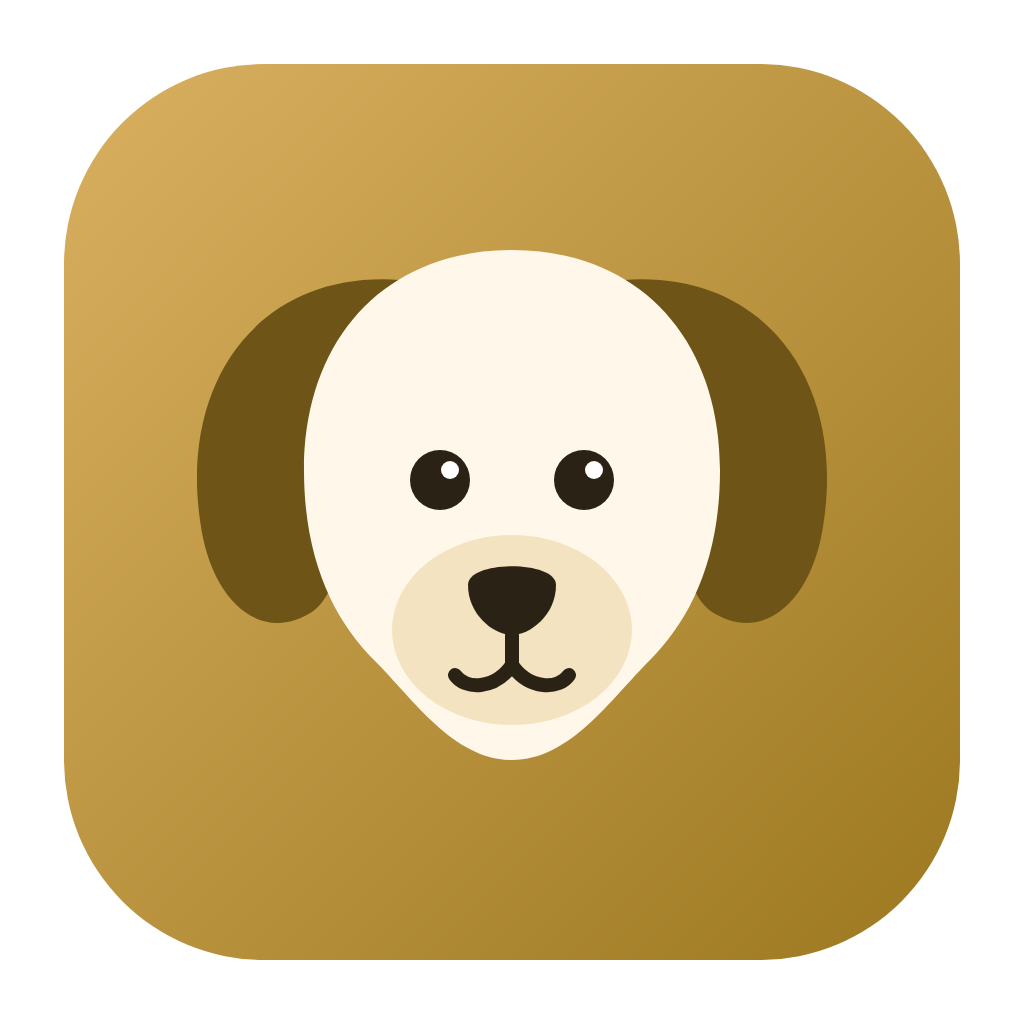
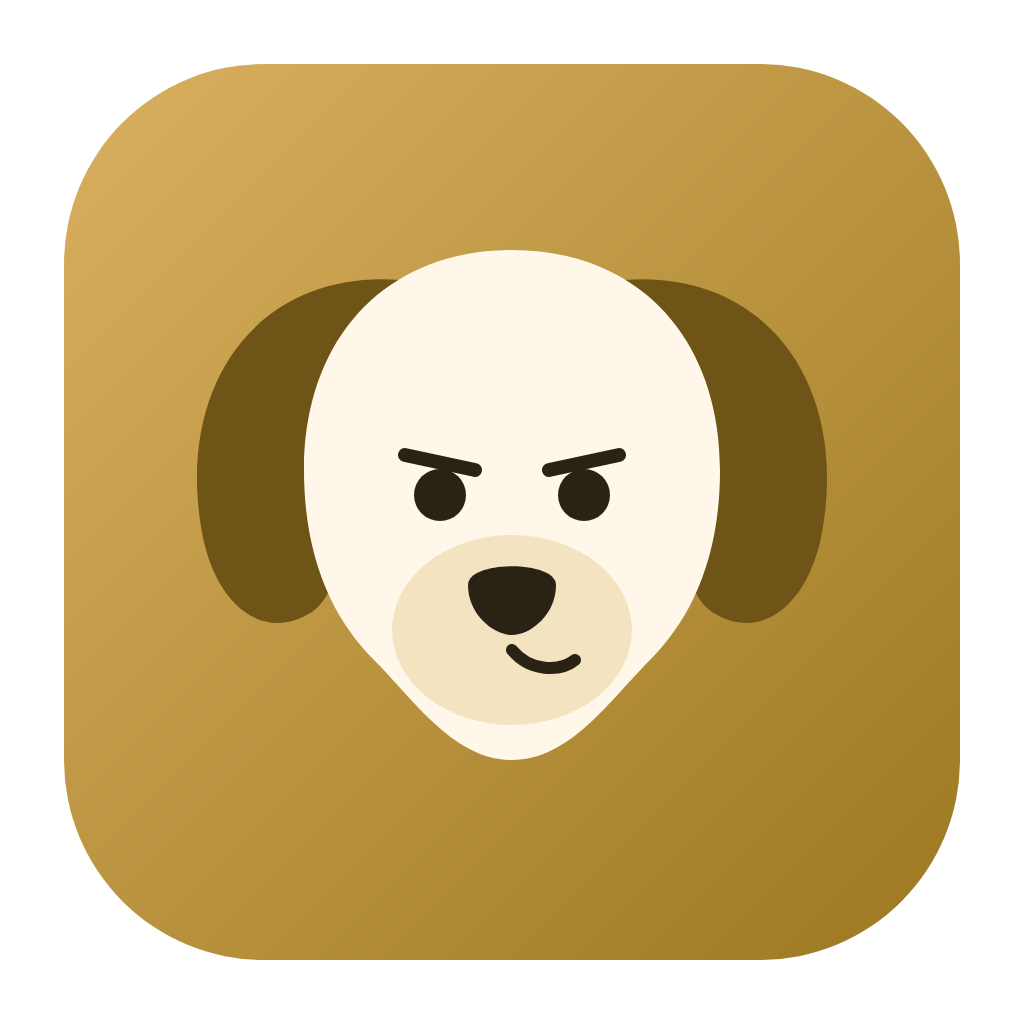
v0.6.3

Changed region(s): [[0.4375, 0.625, 0.5625, 0.6875], [0.5312, 0.4375, 0.625, 0.5312], [0.375, 0.4375, 0.4688, 0.5312]]

diff --git a/engine/static/cartes.js b/engine/static/cartes.js
@@ -13,6 +13,7 @@ function queue() {
   const rank = (p) => (p.conflict ? 0 : isHi(p) ? 2 : 1);   // les conflits d'abord, un par un ; les sûrs à la fin
   return [...P.filter((p) => !L.includes(p.id)).sort((a, b) => rank(a) - rank(b)), ...L.map((id) => P.find((p) => p.id === id))];
 }
+const isUnknown = (p) => !p.conflict && (p.type === "autre" || p.confidence === "basse");   // temporaire : grand import (v0.6.3)
 const folderOf = (p) => (p.origin || "").split("/").slice(0, -1).pop() || "";
 
 trier = function () {
@@ -21,8 +22,9 @@ trier = function () {
   return `${modeSwitch()}
   <p class="lead">${P.length ? `${P.length} ${plural(P.length, "document")} à trier. <b>On ne va pas y passer la journée.</b>` : "Rien à trier."} Bon toutou propose, tu décides. Il ne détruit rien.</p>
   ${trierAdd(P)}
-  ${S.st.counts.a_identifier ? `<div class="card box suresbar"><span class="oi">${IC.search}</span><div class="grow"><b>${S.st.counts.a_identifier} ${plural(S.st.counts.a_identifier, "document")} à identifier</b><div class="sub">Mis de côté avec « Je ne sais pas ce que c'est », dans 00_A-TRIER/_A-IDENTIFIER.</div></div><button class="ghost small" data-act="c-unknown-back">Les revoir</button></div>` : ""}
+  ${S.st.counts.a_identifier ? `<div class="card box suresbar"><span class="oi">${IC.search}</span><div class="grow"><b>${S.st.counts.a_identifier} ${plural(S.st.counts.a_identifier, "document")} à identifier</b><div class="sub">Mis de côté avec « Inconnu », dans 00_A-TRIER/_A-IDENTIFIER.</div></div><button class="ghost small" data-act="c-unknown-back">Les revoir</button></div>` : ""}
   ${S.imported || P.some((x) => x.origin) ? understood(P) : ""}
+  ${(() => { const U = P.filter(isUnknown); return U.length > 1 ? `<div class="card box suresbar"><span class="oi">${IC.search}</span><div class="grow"><b>${U.length} ${plural(U.length, "document inconnu", "documents inconnus")}</b><div class="sub">Type non reconnu ou confiance faible. Mets-les de côté pour avancer : ils attendent dans « À identifier » et ne reviennent pas avec un nouvel import. Annulable.</div></div><button class="ghost small" data-act="c-unknown-all">Mettre de côté les ${U.length}</button></div>` : ""; })()}
   ${sure.length > 1 ? `<div class="card box suresbar"><span class="oi" style="background:var(--success-light);color:var(--success)">${IC.check}</span><div class="grow"><b>${sure.length} ${plural(sure.length, "document sûr", "documents sûrs")}</b><div class="sub">Confiance élevée, aucun conflit : rangés comme proposé, en une fois. Annulable.</div></div><button class="cta small" data-act="c-sure">Ranger les sûrs d'un coup</button></div>` : ""}
   ${p ? card(p, Q.length) : !S.busy ? `<div class="card" style="padding:28px;text-align:center"><span class="oi" style="margin:0 auto 10px;background:var(--success-light);color:var(--success)">${IC.check}</span><b>Tout est trié.</b><div class="sub">Dépose un fichier ou un dossier ci-dessus.</div></div>` : ""}`;
 };
@@ -75,7 +77,7 @@ function card(p, n) {
         <button class="ghost${S.blank ? " on" : ""}" data-act="c-fix" title="Flèche bas">↓ Corriger</button>
         <button class="cta" data-act="c-ok" data-id="${p.id}" title="Flèche droite">${(p.doubts || []).length ? "Ranger quand même →" : "Ranger →"}</button>
       </div>
-      <div class="ckeys"><button class="linkbtn" data-act="c-undo" ${S.lastBatch ? "" : "disabled"}>Annuler (Z)</button><span>·</span><button class="linkbtn" data-act="c-unknown" data-id="${p.id}">Je ne sais pas ce que c'est</button><span>·</span><button class="linkbtn" data-act="ignore" data-id="${p.id}">Ignorer</button><span class="sub">← → ↓ Z au clavier</span></div>
+      <div class="ckeys"><button class="linkbtn" data-act="c-undo" ${S.lastBatch ? "" : "disabled"}>Annuler (Z)</button><span>·</span><button class="linkbtn" data-act="c-unknown" data-id="${p.id}" title="Il quitte la file et ne revient pas, même si tu réimportes le dossier. « Les revoir » le ramène.">Inconnu · plus tard (I)</button><span class="sub">← → ↓ I Z au clavier</span></div>
     </div></div>`;
 }
 
@@ -101,11 +103,22 @@ function phrase(p) {
     ${S.blank ? ask(p, S.blank) : ""}</div>`;
 }
 function chip(v, label, first, extra) { return `<button type="button" class="chip${first ? " first" : ""}" data-pick="${esc(v)}">${esc(label)}${extra ? `<small>${esc(extra)}</small>` : ""}</button>`; }
+/* « dis-le avec tes mots » : cherche dans le nom du type, sa catégorie et ses mots-clés ; les petits mots (de, d', la…) sont ignorés,
+   et si aucun type ne contient tous les mots, on garde ceux qui en contiennent le plus. */
+const STOP = new Set(["de", "d", "du", "des", "la", "le", "les", "l", "un", "une", "mon", "ma", "mes", "et", "a", "au", "en", "pour"]);
+function typeSearch(q) {
+  const T = S.st.types, W = q.split(/[^a-z0-9]+/).filter((w) => w && !STOP.has(w));
+  if (!W.length) return [];
+  const score = Object.keys(T).map((t) => { const hay = unaccent(T[t].label + " " + (S.st.categories[T[t].cat] || "") + " " + (T[t].mots || ""));
+    const lab = unaccent(T[t].label); return [t, W.filter((w) => hay.includes(w)).length + W.filter((w) => lab.includes(w)).length * 0.5]; });
+  const all = score.filter((x) => x[1] >= W.length).sort((a, b) => b[1] - a[1]);
+  return (all.length ? all : score.filter((x) => x[1] > 0).sort((a, b) => b[1] - a[1])).map((x) => x[0]);
+}
 function ask(p, k) {
   const T = S.st.types;
   if (k === "type") {
     const q = unaccent(S.tq);
-    let ids = q ? Object.keys(T).filter((t) => q.split(/\s+/).every((w) => unaccent(T[t].label).includes(w) || unaccent(S.st.categories[T[t].cat] || "").includes(w))).slice(0, 6)
+    let ids = q ? typeSearch(q).slice(0, 6)
                 : [...(p.type === "autre" ? [] : [p.type]), ...(p.candidates || []), ...["certificat", "facture", "formulaire", "justificatif_domicile"].filter((t) => T[t]), "autre"].filter((t, i, a) => T[t] && a.indexOf(t) === i).slice(0, 6);
     return `<div class="ask"><b>C'est quoi, ce document ?</b>${(p.candidates || []).length ? `<span class="from">D'après ce qui est écrit dedans</span>` : ""}
       <div class="chips">${ids.map((t, i) => chip(t, T[t].label, i === 0 && !q && p.type !== "autre", t === p.type && !q && t !== "autre" ? "proposé" : "")).join("") || `<span class="sub">Aucun type ne correspond.</span>`}</div>
@@ -139,7 +152,7 @@ async function pickBlank(k, v) {
   await load();
   const L = { type: "Type", emitter: "Émetteur", person: "Titulaire", date: "Date" }[k];
   toast(`${L} enregistré · le nom et le dossier sont mis à jour`);
-  setTimeout(() => { if (S.justSet === p.id + ":" + k) { S.justSet = null; if (S.v === "trier") render(); } }, 2500);
+  setTimeout(function clear() { if (S.justSet !== p.id + ":" + k) return; if (editing()) return setTimeout(clear, 1500); S.justSet = null; if (S.v === "trier") render(); }, 2500);
 }
 
 /* ---- Ce que Bon toutou a compris de ton rangement (import d'un dossier) */
@@ -251,6 +264,8 @@ document.addEventListener("click", async (e) => {
   if (act === "c-more") { S.fixc = !S.fixc; return render(); }
   if (act === "c-alltypes") { S.allTypes = true; return render(); }
   if (act === "c-unknown") { const r = await api("/api/unknown", { id: a.dataset.id }); S.lastBatch = r.batch; await load(); return toast("Mis de côté : il t'attend dans « À identifier »", r.batch); }
+  if (act === "c-unknown-all") { const ids = (S.inbox || []).filter(isUnknown).map((p) => p.id); const r = await api("/api/unknown/many", { ids }); S.lastBatch = r.batch; await load();
+    return toast(`${r.n} ${plural(r.n, "document mis", "documents mis")} de côté dans « À identifier »`, r.batch); }
   if (act === "c-unknown-back") { const r = await api("/api/unknown/back", {}); await load(); return toast(`${r.n} ${plural(r.n, "document remis", "documents remis")} dans Trier`, r.batch); }
   if (act === "c-undo") return cartesUndo();
   if (act === "c-page") return pdfPage(+a.dataset.d);
@@ -275,6 +290,7 @@ document.addEventListener("keydown", (e) => {
   if (e.key === "ArrowLeft" && p) return click("[data-act=c-later]");
   if (e.key === "ArrowDown" && p) return click("[data-act=c-fix]");
   if (e.key === "z" || e.key === "Z") return click("[data-act=c-undo]");
+  if ((e.key === "i" || e.key === "I") && p) return click("[data-act=c-unknown]");
   if (e.key === "PageDown" && p) { e.preventDefault(); return pdfPage(1); }
   if (e.key === "PageUp" && p) { e.preventDefault(); return pdfPage(-1); }
 });

diff --git a/engine/static/app.js b/engine/static/app.js
@@ -52,7 +52,22 @@ async function load() {
   render();
   if (window.mailAutoOnce) mailAutoOnce();
   clearTimeout(S.poll);
-  if (S.v === "trier" && (S.inbox || []).some((p) => p.ai_pending)) S.poll = setTimeout(async () => { if (S.v === "trier" && !document.querySelector("input:focus,select:focus")) { S.inbox = await api("/api/inbox"); render(); } else load(); }, 4000);
+  if (S.v === "trier" && (S.inbox || []).some((p) => p.ai_pending)) aiPoll();
+}
+/* Tant que l'IA locale lit, on rafraîchit Trier toutes les 4 s — mais jamais pendant que tu écris ou choisis (v0.6.3 : le
+   rafraîchissement effaçait la saisie en cours). */
+function editing() { const a = document.activeElement; return !!(a && /^(INPUT|SELECT|TEXTAREA)$/.test(a.tagName)); }
+function aiPoll() {
+  clearTimeout(S.poll);
+  S.poll = setTimeout(async () => {
+    if (S.v !== "trier") return;
+    if (editing()) return aiPoll();
+    const fresh = await api("/api/inbox");
+    if (S.v !== "trier") return;
+    if (editing()) return aiPoll();
+    S.inbox = fresh; render();
+    if (fresh.some((p) => p.ai_pending)) aiPoll();
+  }, 4000);
 }
 function go(v, extra = {}) {
   S.fix = false; S.pm = false; S.tm = false;
@@ -153,8 +168,8 @@ function tcard(p) {
     <dl class="grid"><dt>Reçu</dt><dd class="fname" style="text-decoration:line-through;color:var(--text-tertiary)">${esc(p.orig)}</dd><dt>Nom proposé</dt><dd class="fname"><b>${esc(p.name)}</b></dd>
       <dt>Destination</dt><dd class="fname">${esc(p.dest)}</dd><dt>Document suivi</dt><dd>${esc(p.relation)}</dd></dl>
     ${window.ruleOffer ? ruleOffer({ inbox: p.id, overrides: p.overrides, type: p.type }) : ""}
-    <div class="tacts"><button class="cta small" data-act="ok" data-id="${p.id}">✓ Valider</button><button class="ghost small" data-act="ignore" data-id="${p.id}">Ignorer</button>
-      <span class="sub">Ignorer garde le fichier dans 00_A-TRIER/_IGNORES.</span></div></div>`;
+    <div class="tacts"><button class="cta small" data-act="ok" data-id="${p.id}">✓ Valider</button><button class="ghost small" data-act="c-unknown" data-id="${p.id}">Inconnu · plus tard</button>
+      <span class="sub">Mis de côté dans 00_A-TRIER/_A-IDENTIFIER : il ne revient pas avec un nouvel import.</span></div></div>`;
 }
 
 /* ------------------------------------------------ DOCUMENTS */
@@ -258,7 +273,7 @@ function dossierView() {
   <h1>${esc(k.label)}</h1><p class="lead">Pour <b>${esc(k.recipient)}</b> ${cc(k.country)} · ${k.ok} ${plural(k.ok, "pièce")} sur ${k.total} ${plural(k.ok, "prête")}. Chaque pièce est prise dans sa version valable, jamais une copie.</p>
   <div class="card" style="margin-bottom:18px">${k.pieces.map((pc) => `<div class="piece ${pc.status === "ok" ? "ok" : pc.status === "part" ? "part" : "miss"}"><span class="st ${pc.status}">${pc.status === "ok" ? "✓" : pc.status === "part" ? "!" : "–"}</span>
     <div class="grow"><b>${esc(pc.label)}</b>${pc.count > 1 ? ` <span class="sub">(${pc.have}/${pc.count})</span>` : ""}
-      <small class="sub">${pc.docs.length ? pc.docs.map((d) => `${esc(d.label)} · version du ${frd(d.date)}`).join("<br>") : "introuvable dans tes documents — dépose-le dans Trier"}</small>
+      <small class="sub">${pc.docs.length ? pc.docs.map((d) => `${esc(d.label)} · version du ${frd(d.date)}`).join("<br>") + (pc.source === "archives" ? ` <span class="pill neutral">pris dans Archives</span>` : "") : "introuvable dans tes documents — dépose-le dans Trier"}</small>
       ${pc.problems.length ? `<small class="sub" style="color:var(--warning)">${esc(pc.problems.join(" · "))}</small>` : ""}</div>
     ${fin ? (pc.status === "ok" ? `<span class="pill ok">Prête</span>` : "") : pieceChoice(k, pc)}</div>`).join("")}</div>
   ${fin ? `<div class="card finalbox"><span class="label">Paquet finalisé</span><b style="display:block;font-size:16px;margin:4px 0">${k.manifest.pieces.reduce((a, p) => a + p.files.length, 0)} fichiers figés pour ${esc(k.recipient)}</b>
@@ -292,16 +307,17 @@ function archives() {
 /* ------------------------------------------------ ÉVÉNEMENTS */
 async function upload(files) {
   const F = [...files].filter((f) => f && !f.name.startsWith("."));
-  let ok = 0;
+  let ok = 0, known = 0;
   for (let i = 0; i < F.length; i++) {
     S.busy = `Lecture ${i + 1}/${F.length} : ${F[i].name}`; render();
     const rel = F[i]._rel || F[i].webkitRelativePath || "";   // chemin dans le dossier importé : les noms des dossiers servent d'indices
     if (rel.includes("/")) S.imported = true;
-    try { await fetch("/api/upload?name=" + encodeURIComponent(F[i].name) + (rel ? "&rel=" + encodeURIComponent(rel) : ""), { method: "POST", body: F[i] }); ok++; }
+    try { const r = await (await fetch("/api/upload?name=" + encodeURIComponent(F[i].name) + (rel ? "&rel=" + encodeURIComponent(rel) : ""), { method: "POST", body: F[i] })).json(); r.known ? known++ : ok++; }
     catch (e) { console.warn("illisible", F[i].name, e); }
   }
   S.busy = ""; await load();
-  toast(ok ? `${ok} ${plural(ok, "fichier")} ${plural(ok, "lu")} · à toi de valider` : "Aucun fichier lu");
+  toast((ok ? `${ok} ${plural(ok, "fichier")} ${plural(ok, "lu")} · à toi de valider` : "Aucun nouveau fichier")
+    + (known ? ` · ${known} déjà ${plural(known, "connu")} (rangé, ignoré ou mis de côté) : pas réimporté${known > 1 ? "s" : ""}` : ""));
 }
 /* Dossiers glissés : on parcourt leur contenu (sous-dossiers compris). */
 function readEntry(entry) {

diff --git a/desktop/dist/index.html b/desktop/dist/index.html
@@ -4,4 +4,4 @@
 .m{width:56px;height:56px;border-radius:16px;background:linear-gradient(135deg,#D4A853,#9C7820);color:#fff;display:grid;place-items:center;font-weight:800;font-size:26px;margin:0 auto 14px}
 .m svg{width:42px;height:42px}
 .s{width:18px;height:18px;border:2px solid #E0DDD5;border-top-color:#D4A853;border-radius:50%;animation:r 1s linear infinite;margin:14px auto 0}@keyframes r{to{transform:rotate(360deg)}}</style></head>
-<body><div style="text-align:center"><div class="m"><svg xmlns="http://www.w3.org/2000/svg" viewBox="170 240 684 540" aria-hidden="true"> <path d="M400 280 C260 270 180 380 200 520 C210 600 260 645 312 612 C342 592 350 520 352 440 Z" fill="#6E5416"/> <path d="M624 280 C764 270 844 380 824 520 C814 600 764 645 712 612 C682 592 674 520 672 440 Z" fill="#6E5416"/> <path d="M512 250 C640 250 720 340 720 470 C720 560 690 620 650 660 C610 700 570 760 512 760 C454 760 414 700 374 660 C334 620 304 560 304 470 C304 340 384 250 512 250 Z" fill="#FFF8EA"/> <ellipse cx="512" cy="630" rx="120" ry="95" fill="#F3E3C0"/> <circle cx="440" cy="480" r="30" fill="#2B2216"/><circle cx="584" cy="480" r="30" fill="#2B2216"/> <circle cx="450" cy="470" r="9" fill="#fff"/><circle cx="594" cy="470" r="9" fill="#fff"/> <path d="M468 585 C468 560 556 560 556 585 C556 615 530 635 512 635 C494 635 468 615 468 585 Z" fill="#2B2216"/> <path d="M512 635 L512 665 M512 665 C495 690 465 690 455 675 M512 665 C529 690 559 690 569 675" stroke="#2B2216" stroke-width="14" stroke-linecap="round" fill="none"/></svg></div><b style="color:#1D1D1F">Bon toutou</b><div>Ouverture de ton dossier… tout reste sur ton ordinateur.</div><div class="s"></div></div></body></html>
+<body><div style="text-align:center"><div class="m"><svg xmlns="http://www.w3.org/2000/svg" viewBox="170 240 684 540" aria-hidden="true"> <path d="M400 280 C260 270 180 380 200 520 C210 600 260 645 312 612 C342 592 350 520 352 440 Z" fill="#6E5416"/> <path d="M624 280 C764 270 844 380 824 520 C814 600 764 645 712 612 C682 592 674 520 672 440 Z" fill="#6E5416"/> <path d="M512 250 C640 250 720 340 720 470 C720 560 690 620 650 660 C610 700 570 760 512 760 C454 760 414 700 374 660 C334 620 304 560 304 470 C304 340 384 250 512 250 Z" fill="#FFF8EA"/> <ellipse cx="512" cy="630" rx="120" ry="95" fill="#F3E3C0"/> <path d="M405 455 L475 470 M549 470 L619 455" stroke="#2B2216" stroke-width="14" stroke-linecap="round"/> <circle cx="440" cy="495" r="26" fill="#2B2216"/><circle cx="584" cy="495" r="26" fill="#2B2216"/> <path d="M468 585 C468 560 556 560 556 585 C556 615 530 635 512 635 C494 635 468 615 468 585 Z" fill="#2B2216"/> <path d="M512 650 C530 672 560 672 575 660" stroke="#2B2216" stroke-width="12" stroke-linecap="round" fill="none"/> </svg></div><b style="color:#1D1D1F">Bon toutou</b><div>Ouverture de ton dossier… tout reste sur ton ordinateur.</div><div class="s"></div></div></body></html>

diff --git a/engine/static/icons.js b/engine/static/icons.js
@@ -49,4 +49,4 @@ IC.book = G('<path d="M4 4h6a2 2 0 012 2v14a2 2 0 00-2-2H4zM20 4h-6a2 2 0 00-2 2
 IC.palette = G('<path d="M12 3a9 9 0 100 18c1 0 1.5-.8 1.5-1.5 0-1-.8-1.4-.8-2.3 0-1 .8-1.7 1.8-1.7H17a4 4 0 004-4c0-4.7-4-8.5-9-8.5z"/><circle cx="7.5" cy="11" r="1"/><circle cx="10" cy="7" r="1"/><circle cx="15" cy="7.5" r="1"/>');
 IC.calendar = G('<rect x="3" y="5" width="18" height="16" rx="2"/><path d="M3 10h18M8 3v4M16 3v4"/>');
 IC.trash = G('<path d="M4 7h16M9 7V4h6v3M6 7l1 13h10l1-13"/>');
-IC.dog = '<svg xmlns="http://www.w3.org/2000/svg" viewBox="170 240 684 540" aria-hidden="true"> <path d="M400 280 C260 270 180 380 200 520 C210 600 260 645 312 612 C342 592 350 520 352 440 Z" fill="#6E5416"/> <path d="M624 280 C764 270 844 380 824 520 C814 600 764 645 712 612 C682 592 674 520 672 440 Z" fill="#6E5416"/> <path d="M512 250 C640 250 720 340 720 470 C720 560 690 620 650 660 C610 700 570 760 512 760 C454 760 414 700 374 660 C334 620 304 560 304 470 C304 340 384 250 512 250 Z" fill="#FFF8EA"/> <ellipse cx="512" cy="630" rx="120" ry="95" fill="#F3E3C0"/> <circle cx="440" cy="480" r="30" fill="#2B2216"/><circle cx="584" cy="480" r="30" fill="#2B2216"/> <circle cx="450" cy="470" r="9" fill="#fff"/><circle cx="594" cy="470" r="9" fill="#fff"/> <path d="M468 585 C468 560 556 560 556 585 C556 615 530 635 512 635 C494 635 468 615 468 585 Z" fill="#2B2216"/> <path d="M512 635 L512 665 M512 665 C495 690 465 690 455 675 M512 665 C529 690 559 690 569 675" stroke="#2B2216" stroke-width="14" stroke-linecap="round" fill="none"/></svg>';
+IC.dog = '<svg xmlns="http://www.w3.org/2000/svg" viewBox="170 240 684 540" aria-hidden="true"> <path d="M400 280 C260 270 180 380 200 520 C210 600 260 645 312 612 C342 592 350 520 352 440 Z" fill="#6E5416"/> <path d="M624 280 C764 270 844 380 824 520 C814 600 764 645 712 612 C682 592 674 520 672 440 Z" fill="#6E5416"/> <path d="M512 250 C640 250 720 340 720 470 C720 560 690 620 650 660 C610 700 570 760 512 760 C454 760 414 700 374 660 C334 620 304 560 304 470 C304 340 384 250 512 250 Z" fill="#FFF8EA"/> <ellipse cx="512" cy="630" rx="120" ry="95" fill="#F3E3C0"/> <path d="M405 455 L475 470 M549 470 L619 455" stroke="#2B2216" stroke-width="14" stroke-linecap="round"/> <circle cx="440" cy="495" r="26" fill="#2B2216"/><circle cx="584" cy="495" r="26" fill="#2B2216"/> <path d="M468 585 C468 560 556 560 556 585 C556 615 530 635 512 635 C494 635 468 615 468 585 Z" fill="#2B2216"/> <path d="M512 650 C530 672 560 672 575 660" stroke="#2B2216" stroke-width="12" stroke-linecap="round" fill="none"/> </svg>';

diff --git a/engine/bontoutou/core.py b/engine/bontoutou/core.py
@@ -669,8 +669,11 @@ class Bureau:
         """Un fichier déposé ou importé. rel = son chemin dans le dossier importé (« Paye/1.N Louis Fournil…/2019 03.pdf ») :
         seuls les NOMS servent d'indices (employeur, mois), le dossier d'origine n'est jamais modifié."""
         safe = re.sub(r"[/\\:]", "_", os.path.basename(name)) or "document"
-        if self.db.execute("SELECT 1 FROM inbox WHERE sha=? AND state='a_trier'", (hashlib.sha256(data).hexdigest(),)).fetchone():
+        h = hashlib.sha256(data).hexdigest()
+        if self.db.execute("SELECT 1 FROM inbox WHERE sha=? AND state='a_trier'", (h,)).fetchone():
             return None   # déjà dans Trier : pas de deuxième copie dans 00_A-TRIER
+        if self.known_sha(h):
+            return False  # déjà rangé, ignoré ou mis de côté : un nouvel import ne le refait pas revenir (v0.6.3)
         p = unique_path(self.inbox_dir, safe)
         with open(p, "wb") as f:
             f.write(data)
@@ -1086,6 +1089,31 @@ class Bureau:
             b = self._journal(label, ops)
             return {"ok": True, "batch": b}
 
+    def known_sha(self, h):
+        """Ce contenu exact a déjà été traité : rangé (docs), ignoré ou mis de côté « à identifier »."""
+        return bool(self.db.execute("SELECT 1 FROM docs WHERE sha=? UNION SELECT 1 FROM inbox WHERE sha=? AND state IN ('ignore','a_identifier')",
+                                    (h, h)).fetchone())
+
+    def unknown_many(self, ids):
+        """« Mettre de côté » plusieurs documents d'un coup (grand import) : tous dans 00_A-TRIER/_A-IDENTIFIER, un seul Annuler."""
+        with self.lock:
+            ops, n = [], 0
+            for iid in ids or []:
+                row = self.db.execute("SELECT * FROM inbox WHERE id=? AND state='a_trier'", (iid,)).fetchone()
+                if not row:
+                    continue
+                src, newp = self.abs(row["path"]), row["path"]
+                if os.path.exists(src):
+                    dst = unique_path(os.path.join(self.inbox_dir, "_A-IDENTIFIER"), os.path.basename(src))
+                    self._move(src, dst, ops)
+                    newp = self.rel(dst)
+                ops.append({"t": "inbox", "id": iid, "state": "a_trier", "path": row["path"]})
+                self.db.execute("UPDATE inbox SET state='a_identifier', path=? WHERE id=?", (newp, iid))
+                n += 1
+            if not n:
+                return {"ok": True, "n": 0}
+            return {"ok": True, "n": n, "batch": self._journal(f"{n} document{'s' if n > 1 else ''} mis de côté (à identifier)", ops)}
+
     def unknown(self, iid):
         """« Je ne sais pas ce que c'est » : mis de côté dans 00_A-TRIER/_A-IDENTIFIER, il reviendra quand tu voudras."""
         return self.ignore(iid, "_A-IDENTIFIER", "a_identifier", "Mis de côté : à identifier plus tard (00_A-TRIER/_A-IDENTIFIER)")
@@ -1478,12 +1506,16 @@ class Bureau:
                 for t in pc["types"]:
                     cur = self.db.execute("SELECT * FROM docs WHERE type=? AND country=? AND status='actuel' ORDER BY doc_date DESC",
                                           (t, k["country"])).fetchall()
-                    if not cur:
-                        continue
+                    if not cur:   # aucune version actuelle : la plus récente des Archives fait l'affaire (v0.6.3)
+                        cur = self.db.execute("SELECT * FROM docs WHERE type=? AND country=? ORDER BY doc_date DESC", (t, k["country"])).fetchall()
+                        if not cur:
+                            continue
+                        source = "archives"
                     a = cur[0]
                     if count > 1 and a["suivi"]:
-                        docs = self.db.execute("SELECT * FROM docs WHERE suivi=? AND status IN ('actuel','ancienne_version') "
-                                               "ORDER BY doc_date DESC LIMIT ?", (a["suivi"], count)).fetchall()
+                        docs = self.db.execute("SELECT * FROM docs WHERE suivi=? AND status IN ('actuel','ancienne_version'"
+                                               + (",'termine'" if source == "archives" else "") + ") ORDER BY doc_date DESC LIMIT ?",
+                                               (a["suivi"], count)).fetchall()
                     else:
                         docs = [a]
                     break
@@ -1785,7 +1817,7 @@ class Bureau:
                        "dossiers": c("SELECT COUNT(*) FROM dossiers WHERE state IN ('en_cours','finalise')"),
                        "sent": c("SELECT COUNT(*) FROM dossiers WHERE state='envoye'"),
                        "egress": len(self.sorties())},
-            "types": {k: {"label": v["label"], "cat": v["cat"]} for k, v in TYPES.items()},
+            "types": {k: {"label": v["label"], "cat": v["cat"], "mots": " ".join(v.get("titre", []) + v.get("kw", [])[:12])} for k, v in TYPES.items()},
             "countries": {k: v["name"] for k, v in COUNTRIES.items()},
             "categories": CATEGORIES, "subs": SUB_FOLDERS_FR,
             "templates": {k: v["label"] for k, v in TEMPLATES.items()},

diff --git a/engine/tests/test_flow.py b/engine/tests/test_flow.py
@@ -285,5 +285,37 @@ from bontoutou import classify as C6
 check(C6.analyze("Madame, Monsieur, diplome BTS", "Lettre de motivation BTSA.docx", ["FR"])["type"] == "lettre_motivation", "titre « Lettre de motivation » : l'emporte sur les mots du contenu")
 check(C6.analyze("", "Numerisation_20201111.png", ["FR"])["date"] == "2020-11-11", "date collée dans le nom du fichier (scan)")
 
+# v0.6.3 : leçons du premier essai dans l'app (livret d'épargne, contrats d'apprentissage, dates OCR absurdes)
+check(C6.analyze("BANQUE EXEMPLE\nLIVRET EPARGNE POPULAIRE (LEP)\nCONVENTION DE PLACEMENT", "LIVRET EPARGNE POPULAIRE (LEP).pdf", ["FR"])["type"] == "epargne", "« livret » d'épargne : pas un livret de famille")
+check(C6.analyze("Contrat d'apprentissage\n(art. L6211-1 du code du travail)\nCerfa formulaire diplome baccalaureat", "CONTRAT_CERFA_1234.pdf", ["FR"])["type"] == "contrat_travail", "Cerfa rempli titré « Contrat d'apprentissage » : contrat")
+check(C6.analyze("FORMULAIRE\nCONTRAT PEDAGOGIQUE DE L'APPRENTI\nCFA EXEMPLE\nBTS diplome", "Contrat pedagogique.pdf", ["FR"])["type"] == "inscription_formation", "contrat pédagogique : formation")
+check(C6.analyze("LE CONTRAT\nType de contrat ou d'avenant\nle 10/02/1210", "suite.pdf", ["FR"])["date"] != "1210-02-10", "année OCR absurde (1210) ignorée")
+check(catalog.TYPES["autre"]["sub"] == "11-4" and catalog.TYPES["formulaire"]["sub"] == "13-4", "Autre → Divers, Cerfa → Formulaires")
+# v0.6.3 : grand import — ce qui est déjà rangé ou mis de côté ne revient pas ; mise de côté groupée
+_ib = br.inbox()
+if len(_ib) >= 2:
+    _ids = [x["id"] for x in _ib[:2]]
+    _shas = [br.db.execute("SELECT sha, path FROM inbox WHERE id=?", (i,)).fetchone() for i in _ids]
+    _r = br.unknown_many(_ids)
+    check(_r["n"] == 2 and all(br.db.execute("SELECT state FROM inbox WHERE id=?", (i,)).fetchone()[0] == "a_identifier" for i in _ids), "mise de côté groupée")
+    _data = open(br.abs(br.db.execute("SELECT path FROM inbox WHERE id=?", (_ids[0],)).fetchone()[0]), "rb").read()
+    check(br.add_upload("re-import.pdf", _data, rel="Import/re-import.pdf") is False, "réimport d'un document mis de côté : ne revient pas")
+    br.undo(_r["batch"])
+    check(all(br.db.execute("SELECT state FROM inbox WHERE id=?", (i,)).fetchone()[0] == "a_trier" for i in _ids), "mise de côté groupée annulable")
+else:
+    check(False, "pas assez de documents dans Trier pour tester la mise de côté")
+# v0.6.3 : un dossier va chercher dans Archives quand aucune version actuelle n'existe
+_d = br.db.execute("SELECT id, type, country FROM docs d WHERE status='actuel' AND (SELECT COUNT(*) FROM docs e WHERE e.type=d.type AND e.country=d.country AND e.status='actuel')=1 LIMIT 40").fetchall()
+_found = None
+for _x in _d:
+    _tid = next((t for t, T in catalog.TEMPLATES.items() if any(_x["type"] in pc["types"] for pc in T["pieces"])), None)
+    if not _tid:
+        continue
+    br.db.execute("UPDATE docs SET status='termine' WHERE id=?", (_x["id"],))
+    _k = br.dossier(br.create_dossier(_tid, "Test archives", _x["country"]))
+    _found = any(pc["source"] == "archives" and any(y["id"] == _x["id"] for y in pc["docs"]) for pc in _k["pieces"])
+    br.db.execute("UPDATE docs SET status='actuel' WHERE id=?", (_x["id"],))
+    break
+check(_found, "dossier : pièce prise dans Archives si aucune version actuelle")
 print("\nRÉSULTAT :", "OK" if not fails else f"{fails} échec(s)", "· bureau de test :", root)
 sys.exit(1 if fails else 0)

diff --git a/engine/bontoutou/classify.py b/engine/bontoutou/classify.py
@@ -45,6 +45,8 @@ def _mkdate(y, m, d):
         y = int(y)
         if y < 100:
             y += 2000
+        if y < 1900:   # « 10/02/1210 » : chiffres mal lus par l'OCR, pas une date
+            return None
         return dt.date(y, int(m), int(d))
     except Exception:
         return None
@@ -444,7 +446,8 @@ def analyze(text, filename, countries, today=None):
     if type_id == "facture" and scores.get("facture_energie", 0) >= 2:
         type_id = "facture_energie"
     # formulaire vierge (Cerfa) : il cite souvent l'avis d'impôt, la fiche de paie… sans en être un
-    if (_has(hay, "cerfa") or _has(fhay, "cerfa")) and "formulaire" in TYPES and type_id not in ("aide_juridictionnelle", "formulaire"):
+    if (_has(hay, "cerfa") or _has(fhay, "cerfa")) and "formulaire" in TYPES and type_id not in ("aide_juridictionnelle", "formulaire") \
+            and type_id not in titles:   # un Cerfa REMPLI qui porte son titre (« Contrat d'apprentissage ») reste ce qu'il est
         type_id = "aide_juridictionnelle" if "aide_juridictionnelle" in scores else "formulaire"
         top = scores.get(type_id, 2)
     # « solde de tout compte » contient souvent aussi les mots d'une fiche de paie : il gagne s'il est présent

diff --git a/engine/bontoutou/server.py b/engine/bontoutou/server.py
@@ -169,7 +169,7 @@ class H(BaseHTTPRequestHandler):
                 return self._json({"error": "installation à terminer", "setup": True}, 409)
             if p == "/api/upload":
                 iid = B.add_upload(q.get("name", "document"), self._body(), rel=q.get("rel"))
-                return self._json({"ok": True, "id": iid, "duplicate": iid is None})
+                return self._json({"ok": True, "id": iid or None, "duplicate": iid is None, "known": iid is False})
             if p == "/api/rules/import":
                 return self._json(B.regles.import_pack(self._body().decode("utf-8", "ignore"), confirm=q.get("confirm") == "1"))
             data = json.loads(self._body() or b"{}")
@@ -246,6 +246,8 @@ class H(BaseHTTPRequestHandler):
                 return self._json(B.tidy_jobs())
             if p == "/api/unknown":
                 return self._json(B.unknown(data["id"]))
+            if p == "/api/unknown/many":
+                return self._json(B.unknown_many(data.get("ids")))
             if p == "/api/unknown/back":
                 return self._json(B.unknown_back())
             if p == "/api/mail/status":

diff --git a/engine/bontoutou/__init__.py b/engine/bontoutou/__init__.py
@@ -1,2 +1,2 @@
 """Bon toutou — le dossier administratif vivant. Licence AGPL-3.0."""
-__version__ = "0.6.2"
+__version__ = "0.6.3"

diff --git a/CHANGELOG.md b/CHANGELOG.md
@@ -2,6 +2,18 @@
 
 Les mises à jour ne sont jamais obligatoires. Une nouvelle version lit toujours les données des anciennes.
 
+## 0.6.3 — Leçons du premier essai dans l'app
+- **Inconnu · plus tard** (touche I) remplace « Ignorer » et « Je ne sais pas ce que c'est » : le document quitte la file et attend dans 00_A-TRIER/_A-IDENTIFIER (« Les revoir » le ramène).
+- **Dossiers** : quand une pièce n'a aucune version actuelle (ancien bulletin, ancien avis d'impôt…), Bon toutou va la chercher dans Archives, la plus récente d'abord, avec la mention « pris dans Archives ».
+- **Grand import** : un document déjà rangé, ignoré ou mis de côté n'est plus réimporté (il revenait en boucle). Bouton temporaire « Mettre de côté les N inconnus » (type non reconnu ou confiance faible), un seul Annuler.
+- **Écrire pendant que l'IA locale lit** : le rafraîchissement automatique (toutes les 4 s) n'efface plus ce que tu tapes ni le choix en cours. C'était la cause de « je ne peux pas modifier le nom » et de « rien n'est enregistré ».
+- **« Dis-le avec tes mots »** cherche aussi dans les mots-clés des types et ignore les petits mots : « contrat d'apprentissage » trouve « Contrat de travail », « livret épargne » trouve « Livret / épargne ».
+- **Nouveaux types** : Livret / épargne (LEP, Livret A, LDDS, PEL, assurance vie → 10 Patrimoine › Placements) ; Inscription / convention de formation (contrat pédagogique, convention de stage, certificat de scolarité → 12 École › Inscriptions-conventions).
+- Un « livret » n'est plus pris pour un livret de famille sans le mot « famille ».
+- Un Cerfa rempli qui porte son titre (« Contrat d'apprentissage ») est rangé comme un contrat, plus comme un formulaire.
+- Rangement : « Autre document » → 11 Contrats › **Divers** ; Cerfa vierges → 13 Juridique › **Formulaires** (plus « Procurations »). Les fichiers déjà rangés ne bougent pas.
+- Les dates absurdes lues par l'OCR (« 1210 ») sont ignorées.
+
 ## 0.6.2 — Leçons du premier banc d'essai (38 vrais papiers)
 - **Titre du document** : « Lettre de motivation », « Livret de famille », « Permis de conduire »… lu dans le nom du fichier ou en haut de la page l'emporte sur les mots du contenu (une lettre de motivation qui parle de diplôme n'est plus un diplôme). Les noms collés (« MotivationOwwnerPMB ») sont compris.
 - **Nouveaux types** : livret de famille (01 Identité › État civil), lettre de démission (03 Travail › Contrats), courrier de réclamation / mise en demeure (13 Juridique › Litiges).
